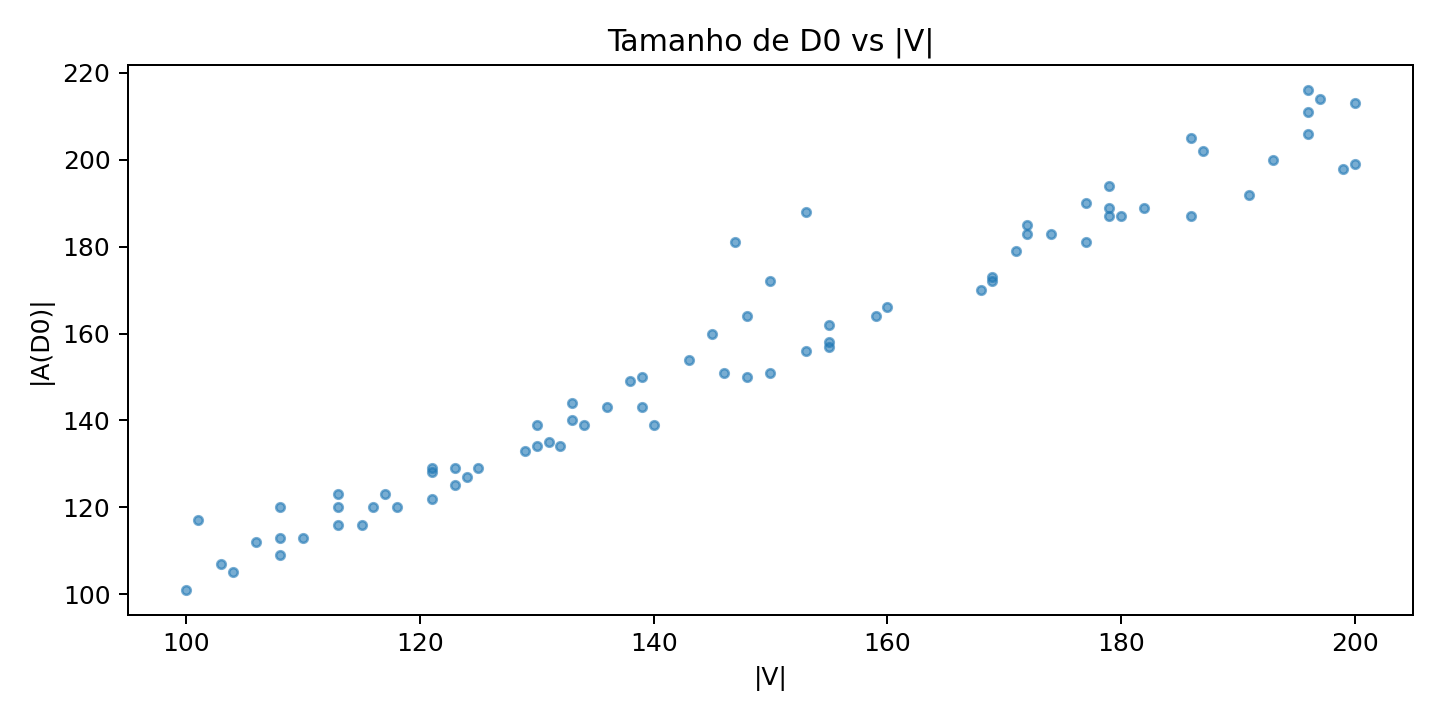
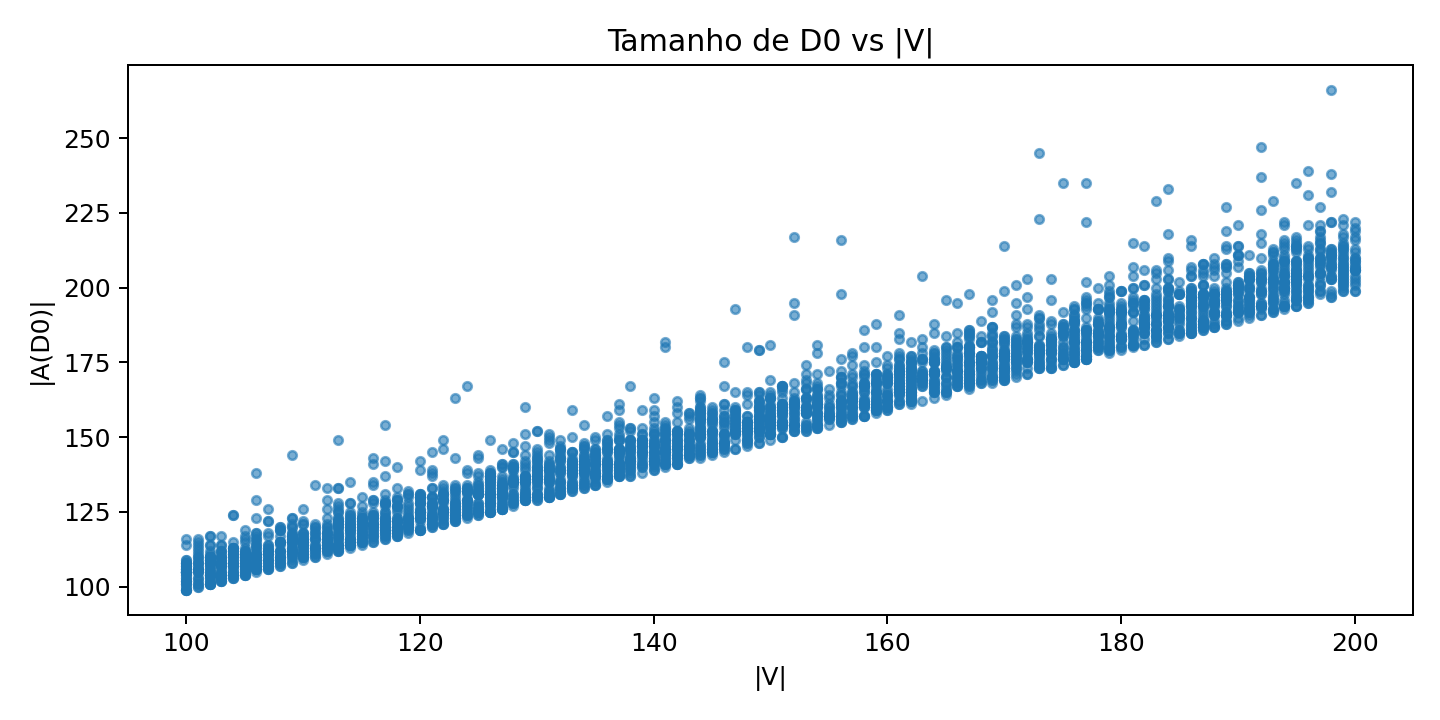
results

diff --git a/Dissertação/capitulos/resultados/main.tex b/Dissertação/capitulos/resultados/main.tex
@@ -57,7 +57,7 @@ Para validar a corretude e caracterizar o desempenho dos algoritmos de Chu--Liu-
 
 \subsection{Metodologia experimental}
 
-A geração de instâncias seguiu parâmetros controlados para garantir representatividade estatística. Construímos digrafos enraizados aleatórios com \(|V| \in [100, 200]\) vértices e densidade de arcos \(|A| \in [n, 3n]\), onde \(n = |V|\). Os pesos dos arcos foram definidos como números inteiros uniformemente distribuídos no intervalo \([1, 20]\). A conectividade a partir da raiz \(r_0\) foi assegurada por construção incremental, garantindo que todo vértice \(v \neq r_0\) seja alcançável.
+A geração de instâncias seguiu parâmetros controlados para garantir representatividade estatística. Construímos 3583 digrafos enraizados aleatórios com \(|V| \in [100, 200]\) vértices e densidade de arcos \(|A| \in [n, 3n]\), onde \(n = |V|\). Os pesos dos arcos foram definidos como números inteiros uniformemente distribuídos no intervalo \([1, 20]\). A conectividade a partir da raiz \(r_0\) foi assegurada por construção incremental, garantindo que todo vértice \(v \neq r_0\) seja alcançável.
 
 O protocolo experimental implementado no arquivo \texttt{tests.py} compreende as seguintes etapas para cada instância gerada:
 \begin{enumerate}
@@ -71,11 +71,11 @@ O protocolo experimental implementado no arquivo \texttt{tests.py} compreende as
 
 \subsection{Resultados}
 
-Nas instâncias geradas, os três construtores de arborescência retornam sempre o mesmo custo, e as duas verificações da condição de complementaridade (dual) passam em 100\% dos casos reportados no CSV. Isso corrobora a corretude das implementações e a equivalência entre \emph{Chu--Liu/Edmonds} e \emph{Frank} no valor ótimo (cf. Seções anteriores e \cite{frank2014,schrijver2003comb}).
+Nas 3583 instâncias geradas, os três construtores de arborescência retornam sempre o mesmo custo, e as duas verificações da condição de complementaridade (dual) passam em 100\% dos casos. Isso corrobora a corretude das implementações e a equivalência entre \emph{Chu--Liu/Edmonds} e \emph{Frank} no valor ótimo (cf. Seções anteriores e \cite{frank2014,schrijver2003comb}).
 
-Do ponto de vista de desempenho, a decomposição temporal por etapas evidencia três aspectos principais. Primeiramente, a Fase~I (normalização primal-dual e elevação de potenciais) domina o tempo total para os tamanhos \(|V|\in[100,200]\) e \(|A|\in[n,3n]\): tipicamente responde pela maior parcela do tempo por instância, ao passo que o tempo de \emph{Chu--Liu/Edmonds} é menor e as Fases~II constituem uma fração residual. Em segundo lugar, entre as duas variantes de Fase~II, a versão com heap (v2) é sistematicamente mais rápida que a versão direta (v1). Observamos ganhos mediana/mediana na ordem de 3--8\,$\times$ (histograma de speedup), compatíveis com a troca de uma varredura sequencial por extrações de menor prioridade em \(O(\log n)\). Finalmente, as estatísticas estruturais do \emph{Chu--Liu/Edmonds} mostram número de contrações e profundidade de recursão pequenos na maioria dos casos (tipicamente 0--3), com alguns outliers; isso é consistente com o limite \(O(n)\) para o número de contrações \cite{schrijver2003comb}. O tamanho do subgrafo de arcos justos \(D_0\) cresce aproximadamente linearmente com \(|V|\), como esperado pelo critério de "um arco de entrada justo por vértice". O pico de memória observado na Fase~I ficou bem abaixo de 1\,MB nas instâncias testadas.
+Do ponto de vista de desempenho, a decomposição temporal por etapas evidencia três aspectos principais. Primeiramente, a Fase~I (normalização primal-dual e elevação de potenciais) domina o tempo total para os tamanhos \(|V|\in[100,200]\) e \(|A|\in[n,3n]\): o tempo mediano da Fase~I é 0,084\,s, ao passo que o tempo mediano de \emph{Chu--Liu/Edmonds} é 0,013\,s e as Fases~II constituem uma fração residual (0,004\,s para v1 e 0,001\,s para v2). Em segundo lugar, entre as duas variantes de Fase~II, a versão com heap (v2) é sistematicamente mais rápida que a versão direta (v1). Observamos speedup mediano de 4,59\,$\times$ (com média de 4,65\,$\times$), compatível com a troca de uma varredura sequencial por extrações de menor prioridade em \(O(\log n)\). Finalmente, as estatísticas estruturais do \emph{Chu--Liu/Edmonds} mostram número de contrações e profundidade de recursão pequenos: mediana de 1 contração e profundidade 1, com média de 2,29 em ambas as métricas; isso é consistente com o limite \(O(n)\) para o número de contrações \cite{schrijver2003comb}. O tamanho do subgrafo de arcos justos \(D_0\) cresce aproximadamente linearmente com \(|V|\), como esperado pelo critério de "um arco de entrada justo por vértice". O pico de memória observado na Fase~I apresentou mediana de 539\,kB e média de 568\,kB nas instâncias testadas.
 
-As Figuras~\ref{fig:times-boxplot}--\ref{fig:d0-vs-v} resumem esses achados. O boxplot (Fig.~\ref{fig:times-boxplot}) mostra a distribuição dos tempos de cada etapa; nota-se que a Fase~I concentra a maior variabilidade e mediana mais alta. A nuvem tempo~vs.~\(|A|\) (Fig.~\ref{fig:time-vs-edges}) indica crescimento aproximadamente linear nas faixas testadas. O histograma de speedup (Fig.~\ref{fig:speedup}) evidencia vantagem consistente da variante com heap na Fase~II. Por fim, as distribuições de contrações/profundidade (Fig.~\ref{fig:contr-depth}) e de pico de memória (Fig.~\ref{fig:peakmem}) são concentradas em valores baixos, enquanto o gráfico \(|A(D_0)|\)~vs.~\(|V|\) (Fig.~\ref{fig:d0-vs-v}) sugere proporcionalidade entre o tamanho de \(D_0\) e o número de vértices.
+As Figuras~\ref{fig:times-boxplot}--\ref{fig:d0-vs-v} resumem esses achados. O boxplot (Fig.~\ref{fig:times-boxplot}) mostra a distribuição dos tempos de cada etapa; nota-se que a Fase~I concentra a maior variabilidade e mediana mais alta (0,084\,s), enquanto \emph{Chu--Liu/Edmonds} apresenta mediana de 0,013\,s e as Fases~II apresentam medianas de 0,004\,s (v1) e 0,001\,s (v2). A nuvem tempo~vs.~\(|A|\) (Fig.~\ref{fig:time-vs-edges}) indica crescimento aproximadamente linear nas faixas testadas. O histograma de speedup (Fig.~\ref{fig:speedup}) evidencia vantagem consistente da variante com heap na Fase~II, com mediana de 4,59\,$\times$. Por fim, as distribuições de contrações/profundidade (Fig.~\ref{fig:contr-depth}) mostram mediana de 1 e média de 2,29, enquanto a distribuição de pico de memória (Fig.~\ref{fig:peakmem}) apresenta mediana de 539\,kB. O gráfico \(|A(D_0)|\)~vs.~\(|V|\) (Fig.~\ref{fig:d0-vs-v}) sugere proporcionalidade entre o tamanho de \(D_0\) e o número de vértices.
 
 \begin{figure}[H]
     \centering
@@ -119,7 +119,7 @@ As Figuras~\ref{fig:times-boxplot}--\ref{fig:d0-vs-v} resumem esses achados. O b
     \label{fig:d0-vs-v}
 \end{figure}
 
-Em síntese, os resultados empíricos alinham-se às previsões teóricas: custos coincidem e satisfazem complementaridade; o \emph{Chu--Liu} apresenta boa escalabilidade nas faixas testadas; a Fase~I de Frank tende a dominar o tempo; e a variação com heap reduz significativamente o custo da Fase~II, refletindo o uso de extrações \(\log n\). Essas observações reforçam o quadro de \cite{frank2014,schrijver2003comb}: a organização primal--dual de Frank torna explícitas as estruturas (cortes ativos, apertude) que explicam tanto a corretude quanto caminhos de otimização.
+Em síntese, os resultados empíricos das 3583 instâncias testadas alinham-se às previsões teóricas: custos coincidem e satisfazem complementaridade em todos os casos; o \emph{Chu--Liu/Edmonds} apresenta boa escalabilidade com tempo mediano de 0,013\,s; a Fase~I de Frank domina o tempo de execução com mediana de 0,084\,s; e a variante com heap reduz significativamente o custo da Fase~II, apresentando speedup mediano de 4,59\,$\times$, refletindo o uso de extrações em \(O(\log n)\). Essas observações reforçam o quadro de \cite{frank2014,schrijver2003comb}: a organização primal-dual de Frank torna explícitas as estruturas (cortes ativos, arcos justos) que explicam tanto a corretude quanto caminhos de otimização.
 
 
 Os testes e as análises apresentados oferecem uma base robusta para a compreensão prática e teórica dos algoritmos de arborescência de custo mínimo, explicitando suas forças e nuances. Compreender os algoritmos teoricamente e validá-los empiricamente, porém, é apenas parte do desafio: como transformar esse conhecimento em aprendizagem efetiva para estudantes e profissionais?

diff --git a/tests.py b/tests.py
@@ -9,7 +9,6 @@ import networkx as nx
 from typing import Optional, Callable
 
 from andrasfrank import (
-    andras_frank_algorithm,
     phase1,
     phase2,
     phase2_v2,
@@ -18,7 +17,7 @@ from andrasfrank import (
 from chuliu import chuliu_edmonds, remove_edges_to_r0
 
 # Deafult parameters
-NUM_TESTS = 10
+NUM_TESTS = 2000
 MIN_VERTICES = 100
 MAX_VERTICES = 200
 PESO_MIN = 1
@@ -144,7 +143,7 @@ def volume_tester(
     log_txt_path=LOG_TXT_PATH,
     draw_fn: Optional[Callable] = None,
     log: Optional[Callable[[str], None]] = None,
-    boilerplate: bool = False,
+    boilerplate: bool = True,
     lang=LANG,
     family: str = FAMILY,
 ):
@@ -476,7 +475,7 @@ def volume_tester(
         log_console_and_file(f"\n Testes com falha: {failure_count}")
         log_console_and_file(f"\n Custo ChuLiu > Frank: {chuliu_greater_than_frank}")
         log_console_and_file(f"\n Custo Frank > ChuLiu: {frank_greater_than_chuliu}")
-
+        
 
 volume_tester(
     num_tests=NUM_TESTS,
